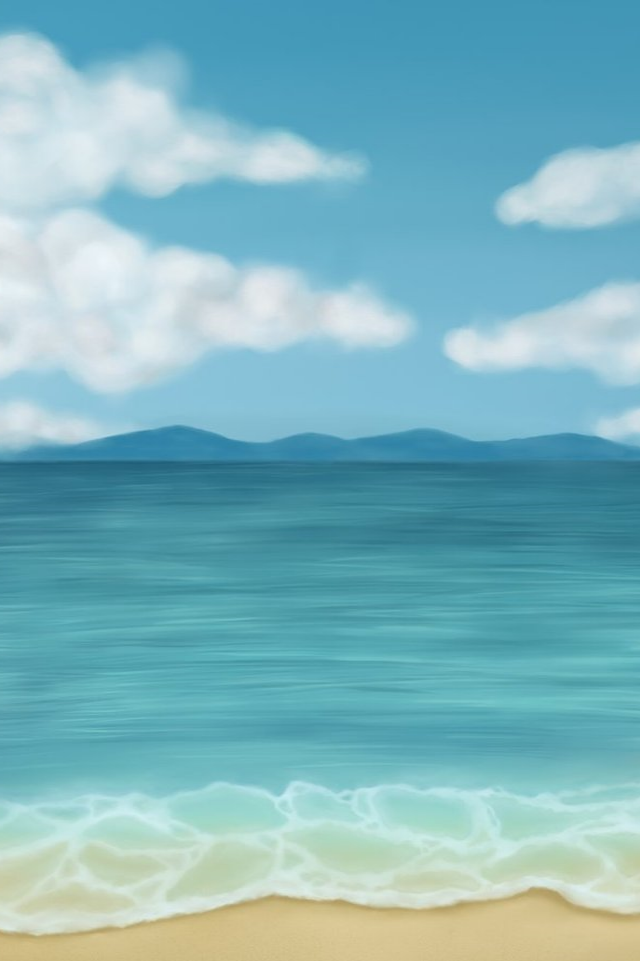
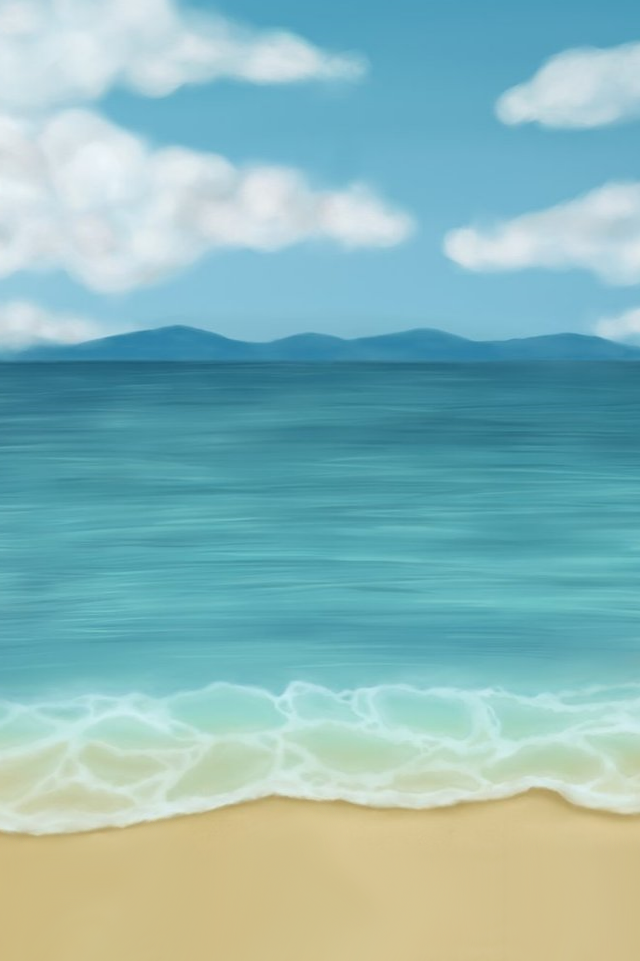
hehe backgrunden klar

diff --git a/js/menuUtils.js b/js/menuUtils.js
@@ -97,6 +97,9 @@ function showMenu() {
 	*/
 	resetButton.buttonSprite.inputEnabled = false;
 	resetButton.buttonSprite.alpha = false;
+
+	guiUpper.alpha = false;
+	guiLower.alpha = false;
 }
 
 function hideMenu() {
@@ -116,6 +119,9 @@ function hideMenu() {
 	*/
 	resetButton.buttonSprite.inputEnabled = true;
 	resetButton.buttonSprite.alpha = true;
+
+	guiUpper.alpha = true;
+	guiLower.alpha = true;
 }
 
 function showLevelMenu() {
@@ -138,7 +144,10 @@ function showLevelMenu() {
 	levelButton5.buttonSprite.alpha = true;
 
 	resetButton.buttonSprite.inputEnabled = false;
-	resetButton.buttonSprite.alpha = true;
+	resetButton.buttonSprite.alpha = false;
+
+	guiUpper.alpha = false;
+	guiLower.alpha = false;
 }
 
 function hideLevelMenu() {
@@ -161,4 +170,7 @@ function hideLevelMenu() {
 
 	resetButton.buttonSprite.inputEnabled = true;
 	resetButton.buttonSprite.alpha = true;
+
+	guiUpper.alpha = true;
+	guiLower.alpha = true;
 }

diff --git a/js/guiUtils.js b/js/guiUtils.js
@@ -2,6 +2,8 @@ function setUpGui() {
 	console.log('set up gui here');
 	guiGroup = game.add.group()
 
-	//guiUpper = guiGroup.create(0, 0, 'spriteGuiUpper');
+	guiUpper = guiGroup.create(0, 0, 'spriteGuiUpper');
 	guiLower = guiGroup.create(0, 877, 'spriteGuiLower' );
+	guiUpper.alpha = false;
+	guiLower.alpha = false;
 }

diff --git a/index.html b/index.html
@@ -37,7 +37,7 @@ function preload() {
 function create() {
 
 	console.log('create');
-    game.add.sprite(0,-60, 'background');
+    game.add.sprite(0,0, 'background');
     
 	bClick = game.add.audio('sfx');
 
